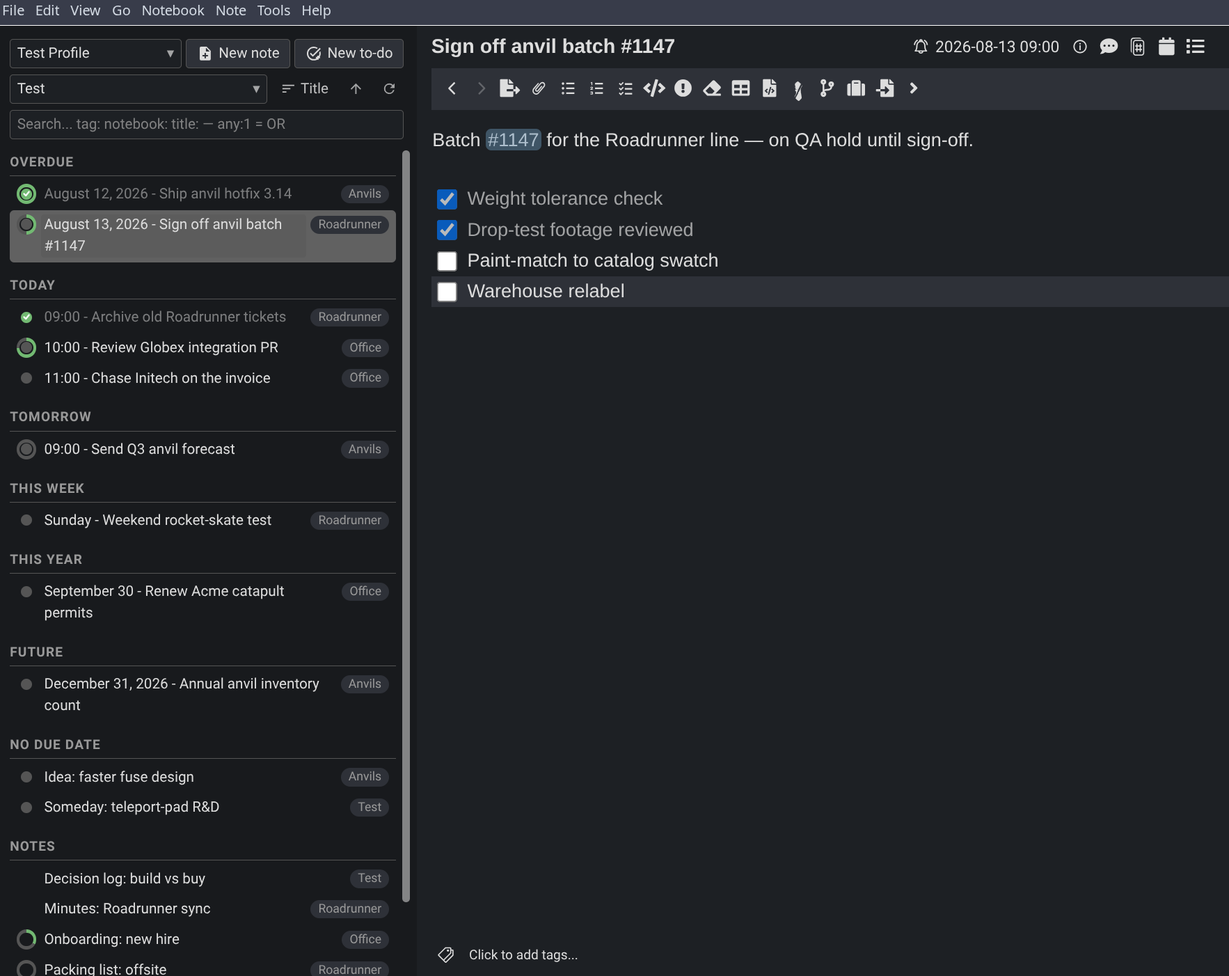
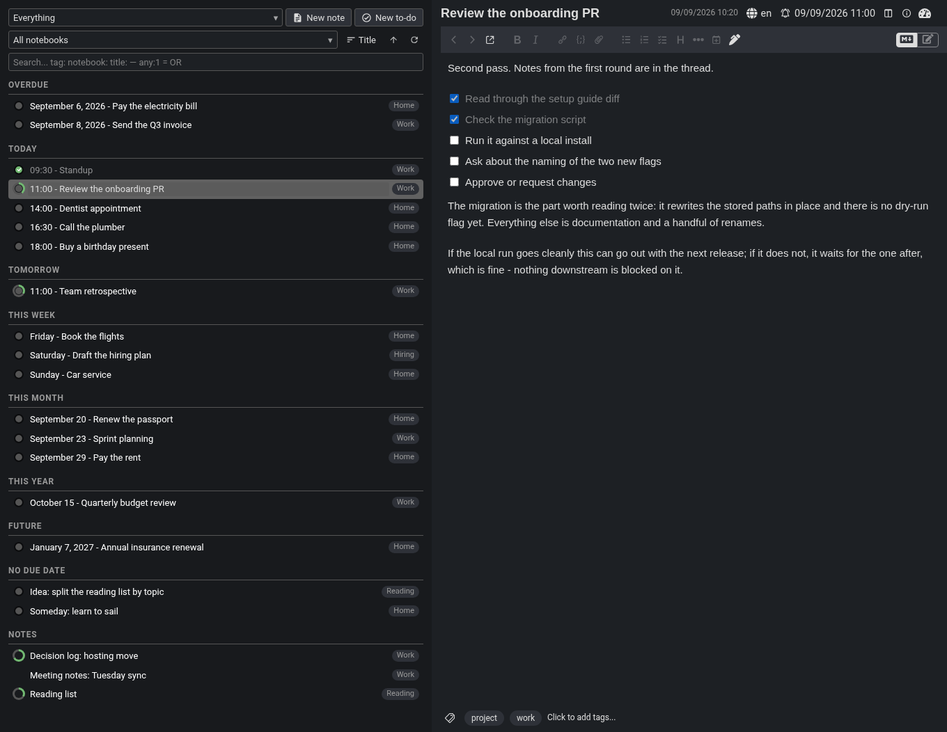
docs: comprehensive README with a regenerated dark screenshot set
Every feature area now has prose backed by the code - views incl. Basic,
between-rows drag scheduling and the day start time, the full alarm picker
with its multi-select modes, any:1 and the autocomplete multi-pick, the
outside-filters and excluded-notebooks result tiers, notebook management,
profiles in detail, overview notes, sync reporting, appearance incl. custom
CSS, every setting, and an honest Android section. Seven screenshots
captured from staged fixture data in one dark scene replace the three stale
ones; each keeps the caption plus regeneration-comment convention. Install
moved up top with the minimum Joplin versions, and a section nav line sits
under the hero. No version change.

diff --git a/README.md b/README.md
@@ -2,42 +2,30 @@
 
 One panel for your to-dos, notes, and the checkboxes inside them, grouped by when they are due.
 
-Cockpit is a single [Joplin](https://joplinapp.org) panel built to replace the notes and notebooks sidebars. It gathers every to-do, every note, and the checkboxes inside them into one view, grouped by due date — so it is your plan and your whole archive at the same time. Switch it between an Overdue / Today / This Week rundown, a flat date list, a month calendar, or a week planner. It is built for one thing: deciding what to do right now.
+Cockpit is a single [Joplin](https://joplinapp.org) panel built to replace the notes and notebooks sidebars. It gathers every to-do, every note, and the checkboxes inside them into one view, grouped by due date — so it is your plan and your whole archive at the same time. Switch it between an Overdue / Today / This Week rundown, a flat list with one heading per day, a plain ungrouped roll-up, a month calendar, or a week planner. It is built for one thing: deciding what to do right now.
 
 ![The Cockpit panel on desktop](docs/images/hero-panel.png)
 
-*One panel: every to-do and note, grouped by due date, with a progress ring on each row.*
+*One panel: every to-do and note grouped by due date, a progress ring on each row counting the checkboxes inside it.*
 
-<!-- HERO SHOT (docs/images/hero-panel.png): the desktop panel docked beside the note list,
-     a profile selected, the interval view showing Overdue / Today / This Week groups, a couple of
-     rows with a partly-filled progress ring, and a visible notebook pill on at least one row. -->
+<!-- hero-panel.png: the whole Joplin window at 1360x1080 - NOT the full 1920 the other shots are
+     staged in. GitHub scales a README image to about 890px wide, so a 1920px window renders the
+     panel around 290px and its row text turns to mush; at 1360 the panel is 46% of the frame and
+     the open note still shows its title, toolbar and whole checklist. Not narrower than 1360: the
+     note title bar carries the due date, language chip, alarm and three icons on the same line, and
+     below about 1300 Joplin ellipsises the title itself. Joplin's Dark theme, Cockpit's
+     theme left on "Match Joplin theme". Joplin's own notebook sidebar and note list hidden (Cockpit
+     replaces them), Cockpit docked on the left, a to-do open in the editor. The panel shows the interval
+     view with Overdue / Today / Tomorrow / This Week / This Month / This Year / Future / No Due
+     Date / Notes groups, the three header rows (profile picker + New note/New to-do, notebook
+     filter + sort + sync, search field), notebook pills on rows, one greyed completed to-do, and
+     partly-filled progress rings including on the row whose note is open in the editor — with that
+     note's checkboxes visible beside it so the ring and the ticks match. Completed to-dos setting:
+     "Grayed out". -->
 
-Save any set-up as a profile — its view, filters, search, and what counts as done — then switch profiles to switch the whole view. Narrow the list by notebook or full Joplin search, with autocomplete for `tag:`, `notebook:`, and `title:` — filter the suggestions and pick several at once (Ctrl+click, or press and hold on touch). Reschedule by dragging a to-do onto a day or a group, or open the alarm picker for an exact date and time. Recolour the panel to match Joplin or a built-in theme. It runs on Android too, where the pickers and the profile editor are drawn as touch-native overlays.
+One screen gives you the whole picture. A profile is a whole saved view — its format, filters, search and sorting — so switching profiles switches everything in one step. Narrow the list by notebook, or by anything Joplin's own search understands. Reschedule by dragging a to-do onto a day, or open the date picker for an exact time. The same file runs on Android.
 
-![Theme presets and custom colours](docs/images/themes.png)
-
-*Theme presets and custom colours, with adjustable font and circle size.*
-
-<!-- themes.png: the panel under a non-default theme (e.g. Nord or a custom colour set), with the
-     Cockpit settings section visible so the font-size / circle-size / completed-to-do-style options
-     show. Include at least one completed to-do so its style reads. -->
-
-![The set-alarm picker](docs/images/alarm-picker.png)
-
-*The alarm picker: ISO date, 24-hour time, a Monday-first calendar, and quick shortcuts.*
-
-<!-- alarm-picker.png: the picker open (desktop or the mobile overlay), showing the Monday-first
-     calendar grid, the hour/minute columns, and the Today / Tomorrow / +week / +month buttons.
-     Pick a to-do so a date is prefilled. -->
-
-## Also
-
-- Overview notes: the same list written into a regular note, readable in any Joplin client.
-- A synchronise button that reports the last sync time, duration, and any errors.
-- A context menu on every row: open, switch type, tags, move, duplicate, copy link, delete.
-- Select several rows with Ctrl+click or Shift+click — to-dos and notes together — and the menu applies
-  to the whole set at once. Dragging such a selection onto a date moves only the to-dos in it.
-- New note and New to-do buttons that create in the notebook you have filtered to.
+[Views](#views) · [Due dates](#due-dates) · [Search and filtering](#search-and-filtering) · [Selecting rows](#selecting-rows-and-the-row-menu) · [Profiles](#profiles) · [Appearance](#appearance) · [Settings](#settings) · [On Android](#on-android)
 
 ## Install
 
@@ -45,7 +33,210 @@ In Joplin, open Settings (Configuration on Android) → Plugins, search for "Coc
 
 To install the file by hand instead, download `io.github.pmslava.cockpit.jpl` from the [releases page](https://github.com/pmslava/joplin-plugin-cockpit/releases) and use Plugins → Install from file; both platforms use the same file.
 
-### Build from source
+Cockpit needs Joplin 2.9 or newer on desktop and 3.3 or newer on mobile.
+
+## Views
+
+**Interval** is the default. It sorts everything into named horizons — Overdue, Today, Tomorrow, This Week, This Month, This Year, Future, No Due Date — and labels each row with just as much date as its group needs: a time under Today, a weekday under This Week, a full date under Overdue.
+
+**Date** gives one heading per calendar day, each row prefixed with its due time. **Basic** does no grouping at all: a single list of titles, for a profile that wants a plain roll-up rather than a schedule.
+
+**Month** draws a calendar with a coloured dot per to-do on each day — done, due or overdue — capped per profile with a "+N" overflow so a busy day cannot distort the grid. Every cell carries a screen-reader label naming the day, its count and how many are outstanding. Click a day to list it beneath the grid as ordinary tickable rows; click it again to close.
+
+![The month calendar view](docs/images/month-calendar.png)
+
+*The month calendar: a dot per to-do, done, due or overdue, with the picked day listed underneath.*
+
+<!-- month-calendar.png: the panel iframe under a "Month" profile, Joplin Dark + Match Joplin.
+     Monday-first grid for the current month, dots on at least eight days including one muted grey
+     "done" dot and red dots on past days, one day carrying a "+N" overflow, today's cell outlined,
+     and a day selected so the "calendar-selected" section lists that day's to-dos as tickable rows
+     beneath the grid, with a "No Due Date" section under them. The three header rows must be in
+     frame with the profile picker reading "Month". Note: a day whose to-dos are all completed
+     draws a MUTED dot, not a green one — panel.css paints .calendar-dot.-done with
+     --cockpit-color-faded. -->
+
+**Week** gives one section per day, each to-do a card carrying its due time and notebook on the head line and the title below.
+
+![The week planner view](docs/images/week-planner.png)
+
+*The week planner: one section per day, each to-do a card with its due time and notebook.*
+
+<!-- week-planner.png: the panel iframe under a "Week" profile, Joplin Dark + Match Joplin. At
+     least five of the seven day sections populated, today's section outlined, each card showing the
+     due time and the notebook pill on its head line with the title below, at least one "Nothing
+     due" day for contrast, and the "No Due Date" section visible at the foot. One row may carry the
+     editor-tracking highlight (the note open in the editor); no multi-row selection. -->
+
+Both calendar views keep undated to-dos in their own "No Due Date" section beneath, so a calendar never silently drops them. Arrows step a month or a week, and clicking the title returns to today; where you navigated to lasts for the session and is not written into the profile.
+
+Regular notes appear in their own "Notes" group, before or after the to-dos, per profile. Dates, weekdays and times are rendered in your own locale, and each profile chooses the shape: year 2022 or 22, month January / Jan / J / 01, day 9 or 09, weekday Monday / Mon / M, and 24-hour or AM/PM.
+
+## Due dates
+
+On desktop, drag a to-do onto a calendar day, a week-planner day or a list heading to reschedule it. Onto Today or Tomorrow it becomes due that day; onto This Week, This Month or This Year it becomes due by the end of that period; onto No Due Date its alarm is cleared. Drop into the gap *between* two rows and it lands midway between its new neighbours; drop several and the interval is divided into equal shares in the order you dragged them. That works at a group's edges too, including inside Overdue. A to-do dragged onto a bare day gets the day start time, 09:00 unless you change it.
+
+For an exact time there is the picker: a YYYY-MM-DD date field, an HH:MM time field, and a month grid starting on the profile's first day of the week, with scrolling hour and minute columns pinned flush with it. Two rows of buttons sit above. The first is absolute — Today, Tomorrow, Weekends (the nearest Saturday), Next Monday. The second accumulates as you press it: +hour, +day, +week, +month(day) for the same weekday next month, +month(date) for the same day-of-month, clamped.
+
+![The set-alarm picker with three to-dos selected](docs/images/alarm-picker.png)
+
+*The date picker with three to-dos selected: quick buttons above, calendar and time columns below, and the line that says what the two modes will do.*
+
+<!-- alarm-picker.png: the desktop dialog opened by right-clicking the circle of a row inside a
+     three-row selection, so the title reads "Set alarm for 3 to-dos". Must show: the ISO date and
+     HH:MM fields; BOTH quick rows above the calendar (Today / Tomorrow / Weekends / Next Monday,
+     then +hour / +day / +week / +month(day) / +month(date)); the Monday-first month grid with the
+     hour and minute columns pinned flush to its bottom edge; the two mode radios ("Keep each
+     to-do's own schedule" selected, "Same date & time for all"); the explanation line under them;
+     and Joplin's own OK / Clear alarm / Cancel footer. Clip from the window's left edge so the
+     panel is visible behind the dialog with the selected rows still lit. Joplin Dark. -->
+
+With several to-dos selected the picker offers "Keep each to-do's own schedule" — the default, where every to-do shifts from its own time — or "Same date & time for all", and a line above the footer spells out what will happen. "Clear alarm" removes the due date from every selected to-do.
+
+Right-click a to-do's circle, or long-press it on touch, to open the picker for that to-do, or for the whole selection if it is part of one. Right-click a group heading — "Today", "No Due Date", a week-planner day — to select everything under it and open the picker for the lot.
+
+## The circle on every row
+
+The circle on each row doubles as a ring showing how many of the checkboxes inside that note are ticked, with a "3/7 checkboxes done" tooltip. It is display-only in both directions: filling the ring does not complete the to-do, and completing the to-do does not fill the ring. A note with no checkboxes inside shows a plain disc instead.
+
+Regular notes carry the same ring when they hold checkboxes — with nothing to tick, since a note has no due date and no completion — and no circle at all when they do not. Clicking a to-do's circle completes or un-completes it, and the panel shows the new state at once rather than waiting for Joplin's search index; a failed write rolls back.
+
+The circle is 16 to 36 px, set in the settings; the ring keeps a constant fine weight at any size.
+
+## Search and filtering
+
+The search field takes anything Joplin's search takes — words, `tag:`, `notebook:`, `title:`, negations — applied on top of the profile's own criteria and committed with Enter. Start a query with `any:1` to match any term instead of all; the profile's own filters still apply on top. Emptying the field restores the unfiltered view by itself, however it was emptied.
+
+Typing `tag:`, `notebook:` or `title:` opens a list of matching values — tags and notebooks from data the panel already carries, note titles fetched as you type — and picking one inserts it, leaving the rest of the query byte-for-byte untouched.
+
+![The tag: autocomplete list open in the search field](docs/images/search-autocomplete.png)
+
+*Typing `tag:` opens the value list: filter it, mark several with Ctrl+click, and the apply button inserts them together.*
+
+<!-- search-autocomplete.png: the panel iframe with "tag:" typed in the search field and the
+     suggestion list open below it — the sticky "Filter tags..." box at the top with the apply
+     button beside it, about fifteen tag rows with the last one sliced by the list's scroll height
+     and a scrollbar beside it, two rows carrying the -marked style (lighter fill plus a left accent
+     bar) so the apply button is shown, and the muted "Ctrl+click - select several" hint pinned at
+     the foot. Panel rows must be visible below the list and the header rows above it, so it plainly
+     sits inside the panel. Joplin Dark + Match Joplin. -->
+
+The list is about fifteen rows tall and scrolls, with its own filter box pinned above it. Mark several values — Ctrl/Cmd+click on desktop, a 500 ms press-and-hold then plain taps on touch — and an apply button inserts them together. Marks are held by value, so narrowing the list or clearing the filter never loses them, and Escape unwinds one step at a time: marks, then filter text, then the list.
+
+When a search matches nothing inside the current filters, Cockpit runs one unfiltered search and shows up to fifteen hits under "Results outside current filters". Those rows open on a click but cannot be selected, dragged or acted on in bulk. Only if that is also empty does it look inside the notebooks you have excluded, under "Results in excluded notebooks". Only when both come up empty does it say there are no matches anywhere.
+
+Excluded notebooks are named in the settings, and are hidden from Cockpit everywhere — search results, panel rows, checkbox counts, the overview notes and the notebook picker — sub-notebooks included. Entries are resolved to notebook ids and tracked by id, so renaming or moving an excluded notebook keeps the exclusion working, and a Parent/Sub path disambiguates notebooks that share a name.
+
+The notebook dropdown lists every notebook by its full path, with a filter box pinned at the top; typing narrows it and Enter picks the first match. It offers every notebook, not only the ones the current to-dos live in. Every row also carries the notebook it lives in: click that pill to filter to it, right-click it to move the note somewhere else, hover it for the full path.
+
+A sort picker decides how items sharing a due time — and the Notes group — are ordered: by title (natural, case-insensitive), by updated or by created date, ascending or descending. The choice is part of the profile.
+
+## Selecting rows, and the row menu
+
+On desktop, Ctrl+click adds a row and Shift+click takes a range. A selection can mix to-dos and regular notes freely — a to-do is a note, so every batch action applies to both. With several rows selected, Escape leaves exactly one selected, the last row you actually selected, rather than clearing the lot; and it reaches the selection only when nothing else is open, since a menu, dropdown or suggestion list wins Escape first.
+
+Right-clicking a row opens Cockpit's own menu: Open, Switch between note and to-do type, Tags…, Move to notebook…, Duplicate, Copy Markdown link, Copy note ID, Delete note. The same menu opens on a long press on mobile.
+
+![Cockpit's row menu over a three-row selection](docs/images/row-menu-multi.png)
+
+*Three rows selected — two to-dos and a note — and every entry in the menu says how many it will act on.*
+
+<!-- row-menu-multi.png: the panel iframe with three rows selected by Ctrl+click, at least one of
+     them from the Notes group, and Cockpit's own #noteContextMenu open over the upper half of the
+     panel so nothing is clipped. The menu must legibly read: Open (greyed), "Switch type of 3
+     items", "Tags for 3 notes...", "Move 3 to notebook...", "Duplicate 3 notes", "Copy 3 Markdown
+     links", "Copy 3 note IDs", "Delete 3 notes" (in red). The three selected rows must be visibly
+     highlighted behind it. Joplin Dark + Match Joplin. -->
+
+Right-click inside a multi-row selection and every capable entry is retitled with the count — "Delete 6 notes", "Switch type of 3 items", "Copy 4 Markdown links" — so a mistaken batch is visible before the click; the single-only Open greys out rather than disappearing. Dragging a mixed selection onto a date, dropping it between rows or setting an alarm on it applies to the to-dos in it, in selection order; the notes ride along and are left out of anything time-based.
+
+Copy Markdown link and Copy note ID copy one per line for a selection, with square brackets in titles escaped exactly as Joplin does. If a runtime has no clipboard the panel says so in its own toast rather than a blocking dialog.
+
+Any click on a row opens the note in the main editor; double-clicking its title opens it in its own Joplin window, on desktop. Whichever note the editor is showing is highlighted in the panel, however it was opened — from a Cockpit row, the note list or a link — and that highlight never joins a drag or a batch action. A text selection dragged out of the note editor keeps extending across the panel instead of stopping at its edge.
+
+## Profiles
+
+A profile stores the display format, the search criteria, which completed to-dos count, whether notes are listed and where, the notebook filter, the panel search text and the sorting — so switching profiles switches the whole view in one step.
+
+- Four independent switches decide whether completed to-dos from the past, from today, from the future and with no due date are shown, so a profile can keep today's ticked-off work visible while hiding last month's.
+- A profile also chooses whether undated to-dos are listed at all and whether they are pushed to the end; whether the week starts on Monday or Sunday, which also sets where "This Week" ends; how many dots a calendar day shows before it collapses into "+N", from 1 to 10; and the date, weekday and 12-versus-24-hour formats.
+- The dropdown lists every profile with its own always-visible edit and delete buttons and a "+ New profile…" entry — no hover needed, so it works by tap on mobile too. A numeric sort order decides the order, ties falling back to the name.
+- A fresh install starts with an "All todo and notes" profile showing everything, and the last remaining profile cannot be deleted.
+
+## Notebooks and notes
+
+Every row of the notebook dropdown carries rename, move-under-another-notebook and delete buttons, and a "+ New notebook…" entry sits at the bottom. Deleting asks first and moves the notebook and its notes to the trash.
+
+New note and New to-do create in the notebook the panel is filtered to and open it; with "All notebooks" selected they ask which notebook first. Joplin's own "when creating a new note" title-or-body preference is honoured.
+
+Move, tag and duplicate run Joplin's own dialogs on desktop — the native tag dialog with its autocomplete and common-tags behaviour, Joplin's move dialog, Joplin's duplicateNote. On mobile Cockpit does each itself: a notebook picker it draws, a comma-separated tag field prefilled with the note's current tags (attaching and detaching exactly the difference), and a field-by-field copy into a fresh note in the same notebook.
+
+## Overview notes
+
+Give a profile the id of a note and Cockpit keeps that note filled with the profile's list as Markdown — a heading per group, each to-do a checkbox linked back to itself — so the plan is readable in any Joplin client, including ones that cannot show the panel.
+
+It is rewritten only when the content actually differs, so an unchanged list does not create a note revision on every refresh, and Cockpit ignores its own writes rather than looping on them. A month or week profile writes the date-grouped list rather than a grid, which stays readable and clickable in a note.
+
+## Sync, and keeping up
+
+A button in the header starts a sync — or cancels one in progress — and spins while it runs. Its tooltip reports when the last sync finished, how long it took and whether it had errors; on mobile a long press shows that as a toast, since touch has no hover. Sync start and completion repaint the panel immediately, and one bounded catch-up pass follows so items a sync pulled in appear without waiting for the periodic refresh.
+
+Ticking a to-do, creating one, switching an item between note and to-do, or a change made elsewhere in Joplin all appear in the panel at once.
+
+A profile switch draws the list first and fills the progress rings in behind it, nearest the top of the view first, so a long list is usable before every ring is counted. A background refresh leaves the list where you left it; only a deliberate change of view returns it to the top.
+
+## Appearance
+
+By default the panel takes its colours from the live Joplin theme. It can instead be pinned to Light, Dark, Solarized Light, Solarized Dark, Nord, Aritim Dark or OLED Dark — the Cockpit panel only, not the rest of Joplin.
+
+![The same list under two themes](docs/images/themes.png)
+
+*The same list, same Joplin, two Cockpit themes: Match Joplin on the left, Nord on the right. Seven presets ship in all, plus six custom colour fields.*
+
+<!-- themes.png: TWO real panel-iframe captures of the SAME staged list, side by side in the same
+     order as the caption, made by changing only Settings › Plugins › Cockpit › "Cockpit panel
+     theme" between them: Match Joplin theme, then Preset — Nord. Joplin itself stays on its Dark
+     theme throughout, which is the point — the panel changes and the app does not.
+     TWO, not three: the montage is 636px per panel, GitHub scales a README image to about 890px,
+     and a third panel drops each to ~290px where the row text stops being readable.
+     Nord is the right partner for Match Joplin and a light preset is NOT available: the panel takes
+     its background from Joplin's backgroundColor2 — the SIDEBAR colour, since Cockpit replaces the
+     sidebar — and all seven presets are dark there (light #313640, solarizedLight #002b36, nord
+     #434c5e, solarizedDark #073642, dark/oledDark #181A1D, aritimDark #141a21). "Preset — Solarized
+     Light" therefore draws a dark teal panel. Nord's #434c5e is the furthest any preset gets from
+     Joplin's own dark. A genuinely light panel needs Custom mode.
+     Each capture must include the three header rows and at
+     least one greyed completed to-do so the completed-to-do style reads, identical content row for
+     row and identical heights, scrolled to the top. Composed with a thin neutral gutter and no
+     added labels, borders or shadows. Do NOT reuse the old settings-pane screenshot: it showed no
+     panel and leaked an unrelated plugin list. -->
+
+A Custom mode exposes six colour fields — text, panel background, menu/popup background, to-do checkbox, progress-ring fill and divider — each taking any CSS colour, with anything left empty still following the Joplin theme.
+
+A completed to-do's title can stay normal, or be greyed out, struck through, or both. The panel's base font size can be pinned between 1 and 32 px, or left at 0 to follow Joplin's, and the to-do circle set between 16 and 36 px. On desktop, Tools › Cockpit › Set Panel CSS opens an editor for CSS applied to the panel, injected after the theme so it always wins.
+
+## Settings
+
+Cockpit's settings live in Joplin's own Settings › Plugins › Cockpit.
+
+- **Panel refresh interval** — how long Cockpit waits between background refreshes of the panel and the overview notes. 60 seconds by default on desktop, raised on mobile unless you set it yourself.
+- **Day start time** — the time a to-do gets when it is dragged onto a day it has no time of its own for. 09:00 by default.
+- **Excluded notebooks** — see [Search and filtering](#search-and-filtering).
+- **Theme, completed-to-do style, font size, circle size and the six custom colours** — see [Appearance](#appearance).
+- **Show the Cockpit button in the note toolbar** — a gauge button in the note toolbar toggles the panel, and the same command sits in Tools › Cockpit alongside this switch and Set Panel CSS. Joplin cannot add or remove a toolbar button while running, so turning it on or off applies after a restart, and Cockpit says so.
+- **Gesture trace** — a default-off, mobile-only diagnostic that replaces the suggestion list's hint line with the last few touch events, so a touch problem on a real device can be reported precisely.
+
+## On Android
+
+One .jpl serves both platforms; it detects the platform at runtime. On mobile Cockpit is a tab inside Joplin's own plugin-panel screen and uses Joplin's own button rather than a toolbar button of its own.
+
+Every picker — the notebook picker, the tag editor, the date picker, the whole profile editor — is drawn as a touch overlay inside the panel itself, because a plugin dialog on Android is always drawn behind the panel. A half-second press on a row, a group heading or a to-do's circle opens the same menus a desktop right-click does, and to-do rows gain an explicit "Move to date…" entry since an 18 px circle is a hard touch target. Rows get roughly 40 px hit areas, and the create buttons drop to icons so the header can give its width to the profile picker.
+
+Android can restart the panel's webview under load, so Cockpit keeps the scroll position, an open picker and an in-progress search — the typed query, the open dropdown and its marks — on the plugin side and rebuilds them.
+
+Desktop-only: drag-and-drop rescheduling, Ctrl/Shift multi-select and the batch actions that follow from it, double-click to open in a new window, custom panel CSS, and the note-toolbar button.
+
+## Build from source
 
 ```
 npm install
@@ -53,6 +244,10 @@ npm run dist
 ```
 
 The build writes `publish/io.github.pmslava.cockpit.jpl`. The same file serves both platforms.
+
+## Upgrading from earlier versions
+
+Profiles from the older sqlite3 database — including the one under the plugin id Cockpit used to be published under, as Agenda — and custom CSS from the old custom.css file are imported once into plugin settings, leaving the originals untouched. Profiles saved before the completed-period switches existed inherit their old all-or-nothing setting. The import runs on desktop only; the settings themselves are stored the same way on both platforms.
 
 ## Credits
 
